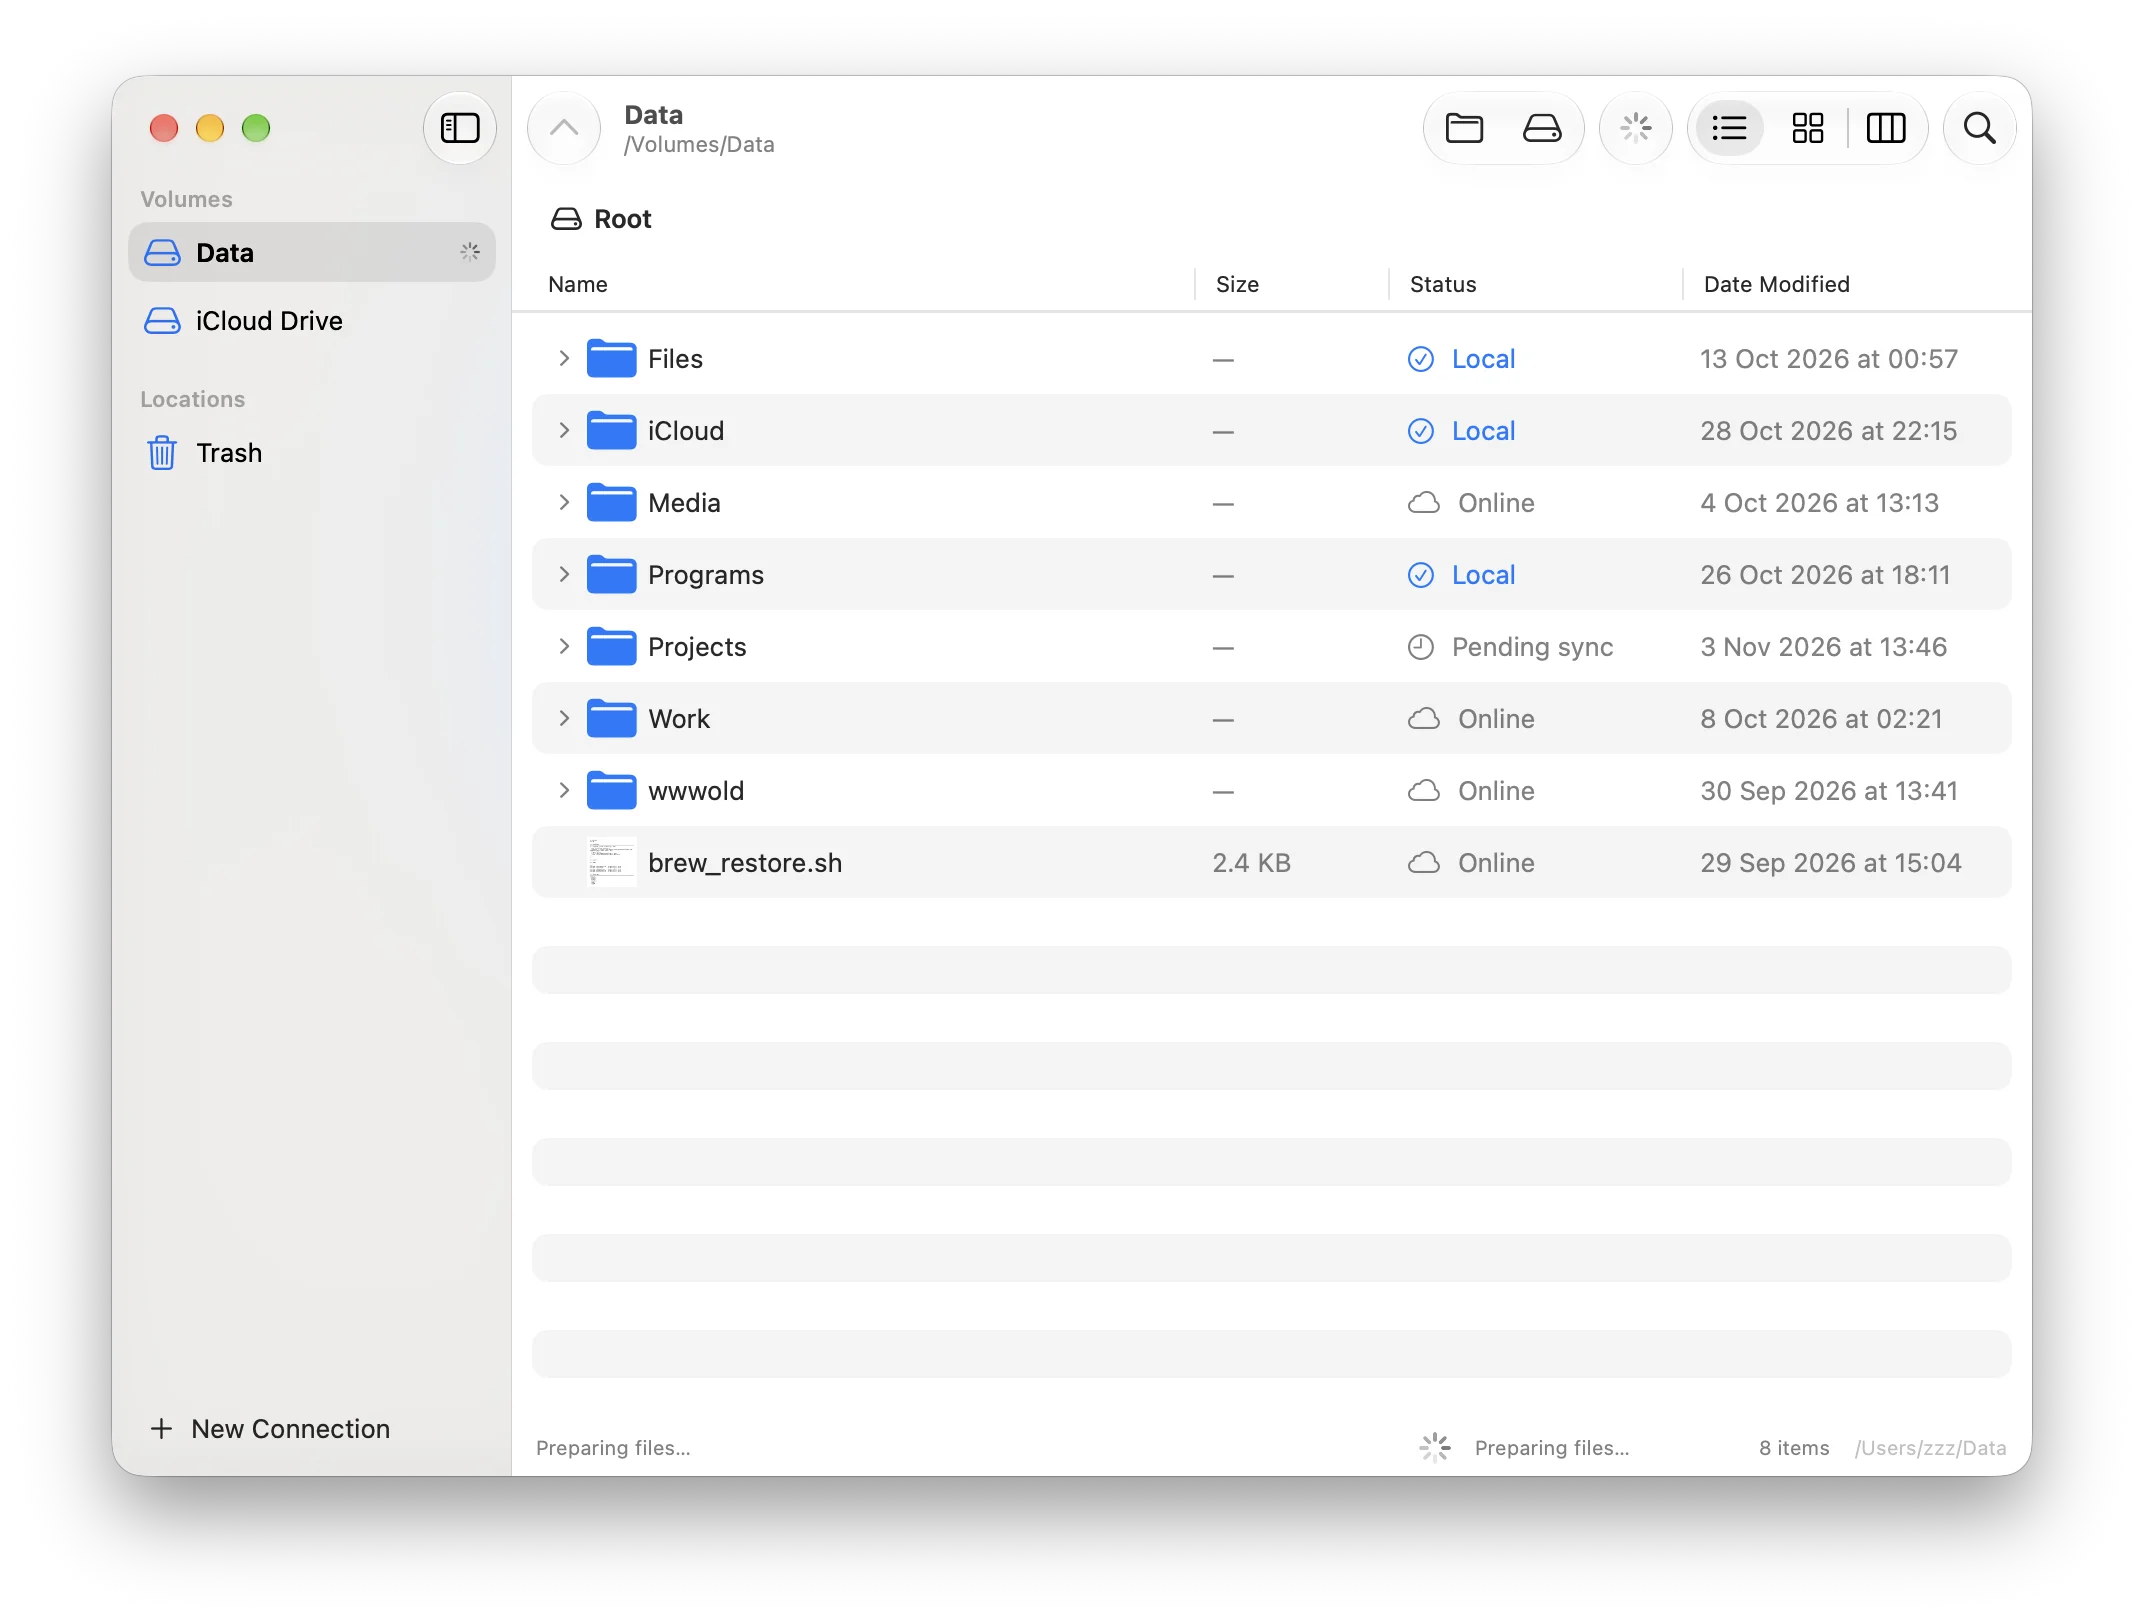
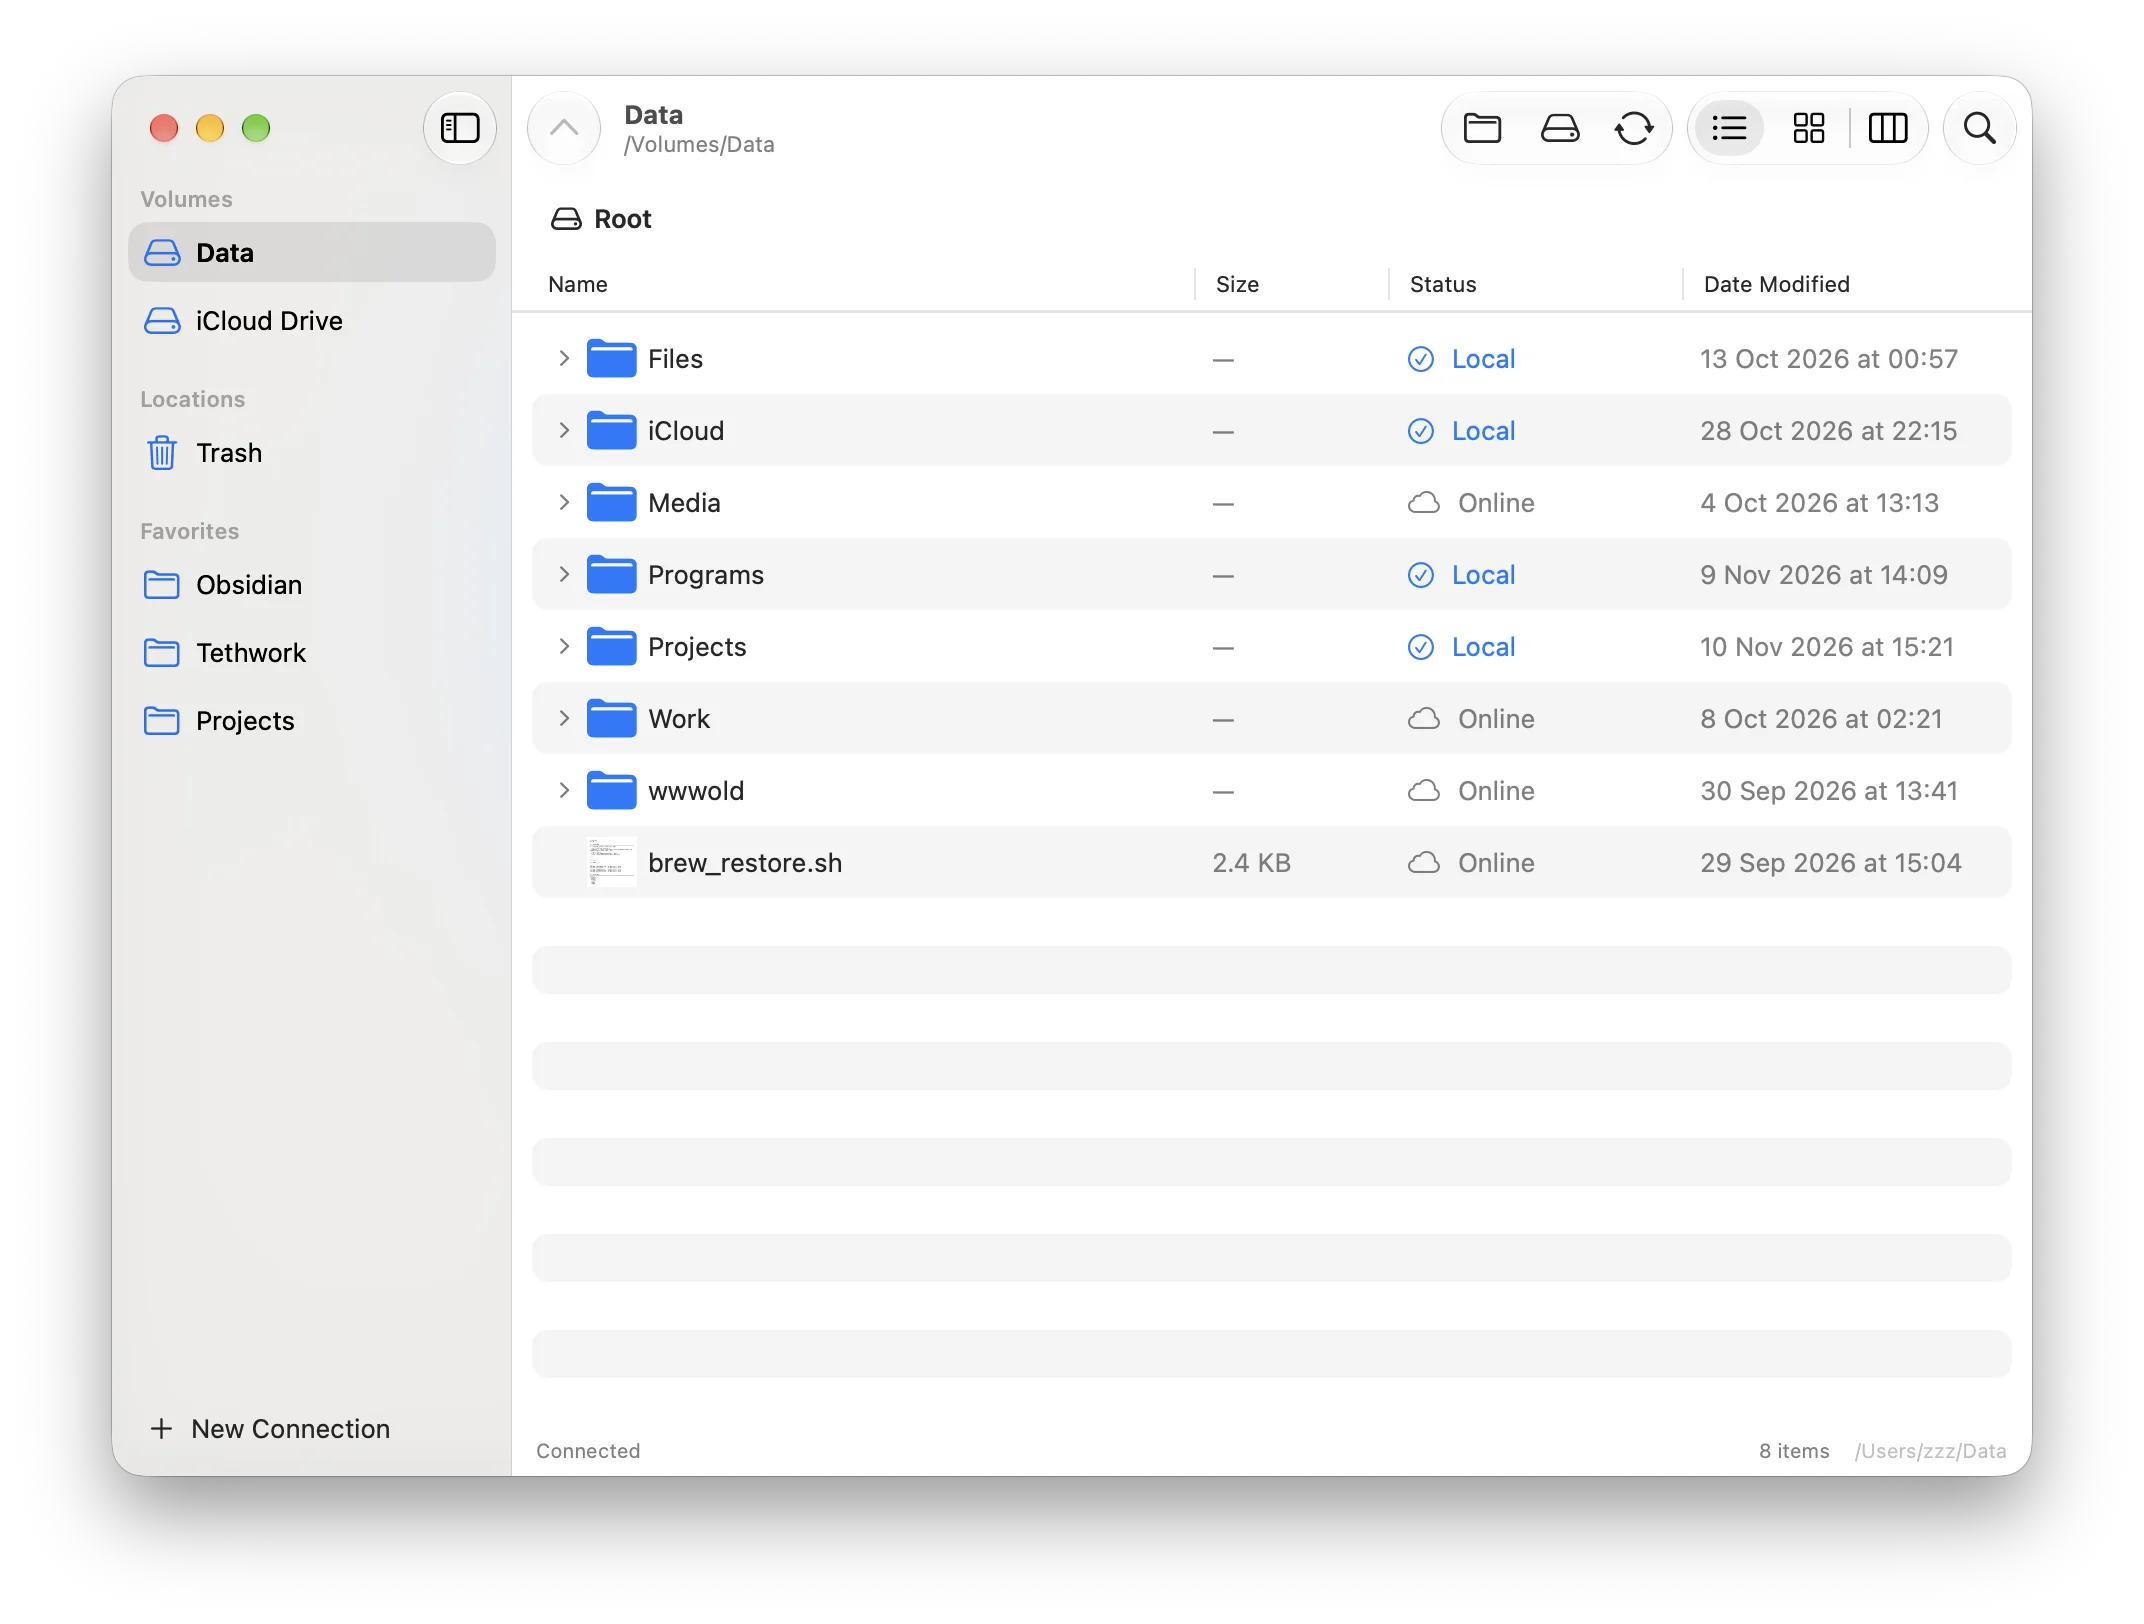
Refresh screenshot and move version information to Releases

diff --git a/README.md b/README.md
@@ -6,7 +6,7 @@
 
 A native macOS **SwiftUI** app — a network volume browser with selective sync.
 
-Current version: **0.0.1 beta** (build 1).
+[Release notes and versions](https://github.com/yurastegny/Tethwork/releases)
 
 > [!WARNING]
 > **Beta software — use at your own risk.** Synchronization can overwrite or delete
